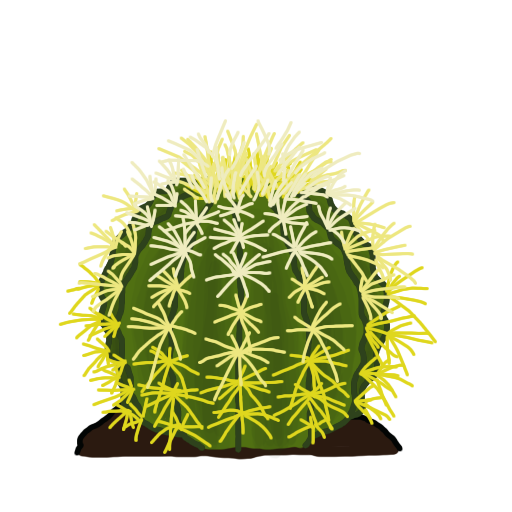
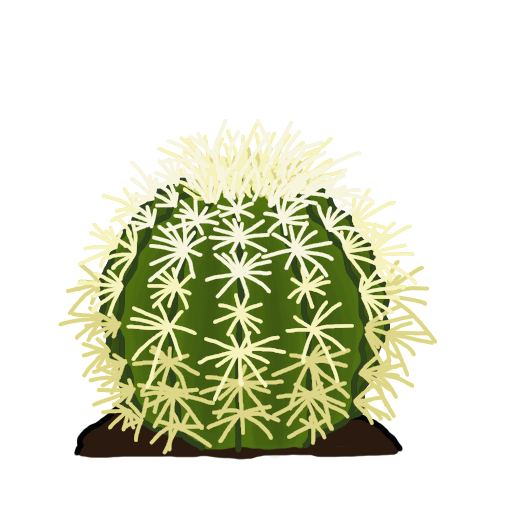
Barrel cactus: the founder's update with paler spines
Bumped the art version so browsers fetch the new picture, and the
description now says pale-spined.

Claude-Session: https://claude.ai/code/session_01AKYuNggPa5w9iRuLumobCr

Changed region(s): [[0.125, 0.2188, 0.8438, 0.9062], [0.8125, 0.5, 0.8438, 0.5312]]

diff --git a/profile.html b/profile.html
@@ -24,8 +24,8 @@
   <meta name="twitter:card" content="summary_large_image" />
   <link rel="preconnect" href="https://fonts.googleapis.com" />
   <link href="https://fonts.googleapis.com/css2?family=Fraunces:wght@500;600&family=Work+Sans:wght@400;500;600&display=swap" rel="stylesheet" />
-  <link rel="stylesheet" href="style.css?v=184" />
-  <script src="a11y.js?v=184"></script>
+  <link rel="stylesheet" href="style.css?v=185" />
+  <script src="a11y.js?v=185"></script>
 </head>
 <body>
   <header class="site-header">
@@ -76,14 +76,14 @@
     <section id="profile-posts" class="feed"><p class="feed-empty is-loading">Loading…</p></section>
   </main>
   <script src="https://cdn.jsdelivr.net/npm/@supabase/supabase-js@2"></script>
-  <script src="supabase-client.js?v=184"></script>
-  <script src="profile-fields.js?v=184"></script>
-  <script src="nav-menu.js?v=184"></script>
-  <script src="ui.js?v=184"></script>
-  <script src="drift.js?v=184"></script>
-  <script src="edit-forms.js?v=184"></script>
-  <script src="biome.js?v=184"></script>
-  <script src="report.js?v=184"></script>
-  <script src="profile.js?v=184"></script>
+  <script src="supabase-client.js?v=185"></script>
+  <script src="profile-fields.js?v=185"></script>
+  <script src="nav-menu.js?v=185"></script>
+  <script src="ui.js?v=185"></script>
+  <script src="drift.js?v=185"></script>
+  <script src="edit-forms.js?v=185"></script>
+  <script src="biome.js?v=185"></script>
+  <script src="report.js?v=185"></script>
+  <script src="profile.js?v=185"></script>
 </body>
 </html>

diff --git a/reviews.html b/reviews.html
@@ -24,8 +24,8 @@
   <meta name="twitter:card" content="summary_large_image" />
   <link rel="preconnect" href="https://fonts.googleapis.com" />
   <link href="https://fonts.googleapis.com/css2?family=Fraunces:wght@500;600&family=Work+Sans:wght@400;500;600&display=swap" rel="stylesheet" />
-  <link rel="stylesheet" href="style.css?v=184" />
-  <script src="a11y.js?v=184"></script>
+  <link rel="stylesheet" href="style.css?v=185" />
+  <script src="a11y.js?v=185"></script>
 </head>
 <body data-biome="forest" data-beta-banner>
   <header class="site-header">
@@ -164,14 +164,14 @@
     </section>
   </main>
   <script src="https://cdn.jsdelivr.net/npm/@supabase/supabase-js@2"></script>
-  <script src="supabase-client.js?v=184"></script>
-  <script src="profile-fields.js?v=184"></script>
-  <script src="nav-menu.js?v=184"></script>
-  <script src="ui.js?v=184"></script>
-  <script src="drift.js?v=184"></script>
-  <script src="edit-forms.js?v=184"></script>
-  <script src="report.js?v=184"></script>
-  <script src="product-match.js?v=184"></script>
-  <script src="reviews.js?v=184"></script>
+  <script src="supabase-client.js?v=185"></script>
+  <script src="profile-fields.js?v=185"></script>
+  <script src="nav-menu.js?v=185"></script>
+  <script src="ui.js?v=185"></script>
+  <script src="drift.js?v=185"></script>
+  <script src="edit-forms.js?v=185"></script>
+  <script src="report.js?v=185"></script>
+  <script src="product-match.js?v=185"></script>
+  <script src="reviews.js?v=185"></script>
 </body>
 </html>

diff --git a/feed.html b/feed.html
@@ -25,8 +25,8 @@
 
   <link rel="preconnect" href="https://fonts.googleapis.com" />
   <link href="https://fonts.googleapis.com/css2?family=Fraunces:wght@500;600&family=Work+Sans:wght@400;500;600&display=swap" rel="stylesheet" />
-  <link rel="stylesheet" href="style.css?v=184" />
-  <script src="a11y.js?v=184"></script>
+  <link rel="stylesheet" href="style.css?v=185" />
+  <script src="a11y.js?v=185"></script>
 </head>
 <body data-biome="forest" data-beta-banner>
 
@@ -95,15 +95,15 @@
   </main>
 
   <script src="https://cdn.jsdelivr.net/npm/@supabase/supabase-js@2"></script>
-  <script src="supabase-client.js?v=184"></script>
-  <script src="profile-fields.js?v=184"></script>
-  <script src="nav-menu.js?v=184"></script>
-  <script src="ui.js?v=184"></script>
-  <script src="drift.js?v=184"></script>
-  <script src="daily.js?v=184"></script>
-  <script src="edit-forms.js?v=184"></script>
-  <script src="report.js?v=184"></script>
-  <script src="polls.js?v=184"></script>
-  <script src="feed.js?v=184"></script>
+  <script src="supabase-client.js?v=185"></script>
+  <script src="profile-fields.js?v=185"></script>
+  <script src="nav-menu.js?v=185"></script>
+  <script src="ui.js?v=185"></script>
+  <script src="drift.js?v=185"></script>
+  <script src="daily.js?v=185"></script>
+  <script src="edit-forms.js?v=185"></script>
+  <script src="report.js?v=185"></script>
+  <script src="polls.js?v=185"></script>
+  <script src="feed.js?v=185"></script>
 </body>
 </html>

diff --git a/events.html b/events.html
@@ -24,8 +24,8 @@
   <meta name="twitter:card" content="summary_large_image" />
   <link rel="preconnect" href="https://fonts.googleapis.com" />
   <link href="https://fonts.googleapis.com/css2?family=Fraunces:wght@500;600&family=Work+Sans:wght@400;500;600&display=swap" rel="stylesheet" />
-  <link rel="stylesheet" href="style.css?v=184" />
-  <script src="a11y.js?v=184"></script>
+  <link rel="stylesheet" href="style.css?v=185" />
+  <script src="a11y.js?v=185"></script>
 </head>
 <body>
   <header class="site-header">
@@ -45,11 +45,11 @@
     </div>
   </main>
   <script src="https://cdn.jsdelivr.net/npm/@supabase/supabase-js@2"></script>
-  <script src="supabase-client.js?v=184"></script>
-  <script src="nav-menu.js?v=184"></script>
-  <script src="ui.js?v=184"></script>
-  <script src="drift.js?v=184"></script>
-  <script src="biome.js?v=184"></script>
-  <script src="events.js?v=184"></script>
+  <script src="supabase-client.js?v=185"></script>
+  <script src="nav-menu.js?v=185"></script>
+  <script src="ui.js?v=185"></script>
+  <script src="drift.js?v=185"></script>
+  <script src="biome.js?v=185"></script>
+  <script src="events.js?v=185"></script>
 </body>
 </html>

diff --git a/moderate-products.html b/moderate-products.html
@@ -25,8 +25,8 @@
 
   <link rel="preconnect" href="https://fonts.googleapis.com" />
   <link href="https://fonts.googleapis.com/css2?family=Fraunces:wght@500;600&family=Work+Sans:wght@400;500;600&display=swap" rel="stylesheet" />
-  <link rel="stylesheet" href="style.css?v=184" />
-  <script src="a11y.js?v=184"></script>
+  <link rel="stylesheet" href="style.css?v=185" />
+  <script src="a11y.js?v=185"></script>
 </head>
 <body>
 
@@ -203,11 +203,11 @@
   </main>
 
   <script src="https://cdn.jsdelivr.net/npm/@supabase/supabase-js@2"></script>
-  <script src="supabase-client.js?v=184"></script>
-  <script src="profile-fields.js?v=184"></script>
-  <script src="nav-menu.js?v=184"></script>
-  <script src="ui.js?v=184"></script>
-  <script src="product-match.js?v=184"></script>
-  <script src="moderate-products.js?v=184"></script>
+  <script src="supabase-client.js?v=185"></script>
+  <script src="profile-fields.js?v=185"></script>
+  <script src="nav-menu.js?v=185"></script>
+  <script src="ui.js?v=185"></script>
+  <script src="product-match.js?v=185"></script>
+  <script src="moderate-products.js?v=185"></script>
 </body>
 </html>

diff --git a/faq.html b/faq.html
@@ -26,8 +26,8 @@
   <meta name="twitter:card" content="summary_large_image" />
   <link rel="preconnect" href="https://fonts.googleapis.com" />
   <link href="https://fonts.googleapis.com/css2?family=Fraunces:wght@500;600&family=Work+Sans:wght@400;500;600&display=swap" rel="stylesheet" />
-  <link rel="stylesheet" href="style.css?v=184" />
-  <script src="a11y.js?v=184"></script>
+  <link rel="stylesheet" href="style.css?v=185" />
+  <script src="a11y.js?v=185"></script>
   <!-- For search engines: what this page is -->
   <script type="application/ld+json">
 {
@@ -285,8 +285,8 @@
     <p class="faq-more">Ready to join? <a class="inline-link" href="signup.html">Sign up for free</a>, or <a class="inline-link" href="reviews.html">browse reviews</a> first.</p>
   </main>
   <script src="https://cdn.jsdelivr.net/npm/@supabase/supabase-js@2"></script>
-  <script src="supabase-client.js?v=184"></script>
-  <script src="nav-menu.js?v=184"></script>
-  <script src="ui.js?v=184"></script>
+  <script src="supabase-client.js?v=185"></script>
+  <script src="nav-menu.js?v=185"></script>
+  <script src="ui.js?v=185"></script>
 </body>
 </html>

diff --git a/index.html b/index.html
@@ -28,8 +28,8 @@
   <link href="https://fonts.googleapis.com/css2?family=Fraunces:wght@500;600&family=Work+Sans:wght@400;500;600&display=swap" rel="stylesheet" />
 
   <!-- Our own stylesheet, kept in a separate file -->
-  <link rel="stylesheet" href="style.css?v=184" />
-  <script src="a11y.js?v=184"></script>
+  <link rel="stylesheet" href="style.css?v=185" />
+  <script src="a11y.js?v=185"></script>
   <link rel="canonical" href="https://byome.xyz/" />
   <!-- For search engines: the site's name, and who runs it -->
   <script type="application/ld+json">
@@ -126,10 +126,10 @@
   </footer>
 
   <script src="https://cdn.jsdelivr.net/npm/@supabase/supabase-js@2"></script>
-  <script src="supabase-client.js?v=184"></script>
-  <script src="nav-menu.js?v=184"></script>
-  <script src="ui.js?v=184"></script>
-  <script src="daily.js?v=184"></script>
-  <script src="home.js?v=184"></script>
+  <script src="supabase-client.js?v=185"></script>
+  <script src="nav-menu.js?v=185"></script>
+  <script src="ui.js?v=185"></script>
+  <script src="daily.js?v=185"></script>
+  <script src="home.js?v=185"></script>
 </body>
 </html>

diff --git a/about.html b/about.html
@@ -26,8 +26,8 @@
   <meta name="twitter:card" content="summary_large_image" />
   <link rel="preconnect" href="https://fonts.googleapis.com" />
   <link href="https://fonts.googleapis.com/css2?family=Fraunces:wght@500;600&family=Work+Sans:wght@400;500;600&display=swap" rel="stylesheet" />
-  <link rel="stylesheet" href="style.css?v=184" />
-  <script src="a11y.js?v=184"></script>
+  <link rel="stylesheet" href="style.css?v=185" />
+  <script src="a11y.js?v=185"></script>
   <!-- For search engines: what this page is -->
   <script type="application/ld+json">
 {
@@ -109,8 +109,8 @@
     <p class="faq-more"><a class="btn btn-solid" href="signup.html">Join Byome for free</a> <a class="btn btn-ghost" href="reviews.html">Browse reviews</a></p>
   </main>
   <script src="https://cdn.jsdelivr.net/npm/@supabase/supabase-js@2"></script>
-  <script src="supabase-client.js?v=184"></script>
-  <script src="nav-menu.js?v=184"></script>
-  <script src="ui.js?v=184"></script>
+  <script src="supabase-client.js?v=185"></script>
+  <script src="nav-menu.js?v=185"></script>
+  <script src="ui.js?v=185"></script>
 </body>
 </html>

diff --git a/edit-profile.html b/edit-profile.html
@@ -24,8 +24,8 @@
   <meta name="twitter:card" content="summary_large_image" />
   <link rel="preconnect" href="https://fonts.googleapis.com" />
   <link href="https://fonts.googleapis.com/css2?family=Fraunces:wght@500;600&family=Work+Sans:wght@400;500;600&display=swap" rel="stylesheet" />
-  <link rel="stylesheet" href="style.css?v=184" />
-  <script src="a11y.js?v=184"></script>
+  <link rel="stylesheet" href="style.css?v=185" />
+  <script src="a11y.js?v=185"></script>
 </head>
 <body>
   <header class="site-header">
@@ -110,10 +110,10 @@
   </main>
 
   <script src="https://cdn.jsdelivr.net/npm/@supabase/supabase-js@2"></script>
-  <script src="supabase-client.js?v=184"></script>
-  <script src="profile-fields.js?v=184"></script>
-  <script src="nav-menu.js?v=184"></script>
-  <script src="ui.js?v=184"></script>
-  <script src="edit-profile.js?v=184"></script>
+  <script src="supabase-client.js?v=185"></script>
+  <script src="profile-fields.js?v=185"></script>
+  <script src="nav-menu.js?v=185"></script>
+  <script src="ui.js?v=185"></script>
+  <script src="edit-profile.js?v=185"></script>
 </body>
 </html>

diff --git a/reset-password.html b/reset-password.html
@@ -25,8 +25,8 @@
 
   <link rel="preconnect" href="https://fonts.googleapis.com" />
   <link href="https://fonts.googleapis.com/css2?family=Fraunces:wght@500;600&family=Work+Sans:wght@400;500;600&display=swap" rel="stylesheet" />
-  <link rel="stylesheet" href="style.css?v=184" />
-  <script src="a11y.js?v=184"></script>
+  <link rel="stylesheet" href="style.css?v=185" />
+  <script src="a11y.js?v=185"></script>
   <!-- Note what the email link said before Supabase tidies the address bar -->
   <script>window.resetLinkParams = window.location.hash.slice(1) + "&" + window.location.search.slice(1);</script>
 </head>
@@ -75,9 +75,9 @@
   </main>
 
   <script src="https://cdn.jsdelivr.net/npm/@supabase/supabase-js@2"></script>
-  <script src="supabase-client.js?v=184"></script>
-  <script src="nav-menu.js?v=184"></script>
-  <script src="ui.js?v=184"></script>
-  <script src="reset-password.js?v=184"></script>
+  <script src="supabase-client.js?v=185"></script>
+  <script src="nav-menu.js?v=185"></script>
+  <script src="ui.js?v=185"></script>
+  <script src="reset-password.js?v=185"></script>
 </body>
 </html>

diff --git a/byome-shop.html b/byome-shop.html
@@ -25,8 +25,8 @@
 
   <link rel="preconnect" href="https://fonts.googleapis.com" />
   <link href="https://fonts.googleapis.com/css2?family=Fraunces:wght@500;600&family=Work+Sans:wght@400;500;600&display=swap" rel="stylesheet" />
-  <link rel="stylesheet" href="style.css?v=184" />
-  <script src="a11y.js?v=184"></script>
+  <link rel="stylesheet" href="style.css?v=185" />
+  <script src="a11y.js?v=185"></script>
 </head>
 <body>
 
@@ -56,11 +56,11 @@
   </main>
 
   <script src="https://cdn.jsdelivr.net/npm/@supabase/supabase-js@2"></script>
-  <script src="supabase-client.js?v=184"></script>
-  <script src="nav-menu.js?v=184"></script>
-  <script src="ui.js?v=184"></script>
-  <script src="drift.js?v=184"></script>
-  <script src="biome.js?v=184"></script>
-  <script src="biome-shop.js?v=184"></script>
+  <script src="supabase-client.js?v=185"></script>
+  <script src="nav-menu.js?v=185"></script>
+  <script src="ui.js?v=185"></script>
+  <script src="drift.js?v=185"></script>
+  <script src="biome.js?v=185"></script>
+  <script src="biome-shop.js?v=185"></script>
 </body>
 </html>

diff --git a/signup.html b/signup.html
@@ -25,8 +25,8 @@
 
   <link rel="preconnect" href="https://fonts.googleapis.com" />
   <link href="https://fonts.googleapis.com/css2?family=Fraunces:wght@500;600&family=Work+Sans:wght@400;500;600&display=swap" rel="stylesheet" />
-  <link rel="stylesheet" href="style.css?v=184" />
-  <script src="a11y.js?v=184"></script>
+  <link rel="stylesheet" href="style.css?v=185" />
+  <script src="a11y.js?v=185"></script>
 </head>
 <body>
 
@@ -82,11 +82,11 @@
   <!-- Supabase's own code library, loaded from their servers -->
   <script src="https://cdn.jsdelivr.net/npm/@supabase/supabase-js@2"></script>
   <!-- Our shared connection setup -->
-  <script src="supabase-client.js?v=184"></script>
+  <script src="supabase-client.js?v=185"></script>
   <!-- Hamburger menu behavior -->
-  <script src="nav-menu.js?v=184"></script>
-  <script src="ui.js?v=184"></script>
+  <script src="nav-menu.js?v=185"></script>
+  <script src="ui.js?v=185"></script>
   <!-- The logic specific to this page -->
-  <script src="signup.js?v=184"></script>
+  <script src="signup.js?v=185"></script>
 </body>
 </html>
